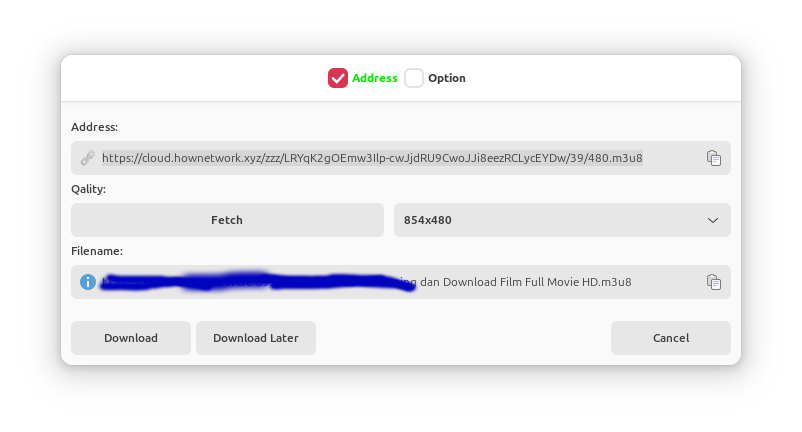
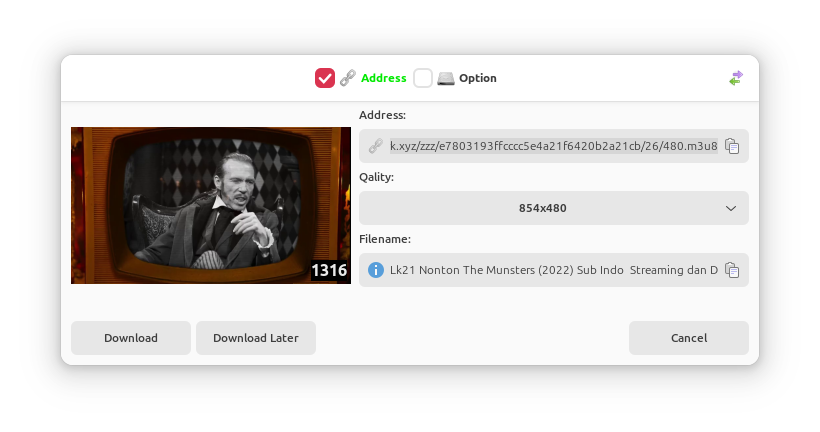
SC

diff --git a/README.md b/README.md
@@ -67,6 +67,7 @@
 ✔ Multi-protocol downloads<br>
 ✔ Torrent support<br>
 ✔ HLS/M3U8 support<br>
+✔ Youtube support<br>
 ✔ File selection before download<br>
 ✔ Modern GTK4 interface<br>
 ✔ Lightweight & fast<br>
@@ -75,34 +76,34 @@
 
 ---
 
-<h2 align="center">🖥 Screenshots</h2>
+<h2 align="center">Screenshots</h2>
 
-<h3 align="center">🏠 Home</h3>
+<h3 align="center">Home</h3>
 <p align="center">
     <img src="https://raw.githubusercontent.com/gabutakut/gabutdm/master/Screenshot0.png" alt="Home">
 </p>
 
-<h3 align="center">🚅 Download Progress</h3>
+<h3 align="center">Download Progress</h3>
 <p align="center">
     <img src="https://raw.githubusercontent.com/gabutakut/gabutdm/master/Screenshot1.png" alt="Progress">
 </p>
 
-<h3 align="center">🧩 Torrent File Selection</h3>
+<h3 align="center">Torrent File Selection</h3>
 <p align="center">
     <img src="https://raw.githubusercontent.com/gabutakut/gabutdm/master/Screenshot2.png" alt="Select File">
 </p>
 
-<h3 align="center">🧩 HLS Fetch Mode</h3>
+<h3 align="center">HLS Fetch Mode</h3>
 <p align="center">
     <img src="https://raw.githubusercontent.com/gabutakut/gabutdm/master/Screenshot3.png" alt="Fetch">
 </p>
 
-<h3 align="center">🚅 HLS Download Progress</h3>
+<h3 align="center">Youtube Selection Mode</h3>
 <p align="center">
     <img src="https://raw.githubusercontent.com/gabutakut/gabutdm/master/Screenshot4.png" alt="HLSp">
 </p>
 
-<h3 align="center">📤 Sharing</h3>
+<h3 align="center">Sharing</h3>
 <p align="center">
     <img src="https://raw.githubusercontent.com/gabutakut/gabutdm/master/Screenshot5.png" alt="Sharing">
 </p>
